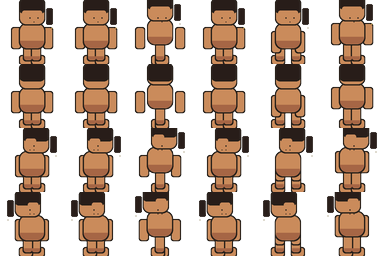
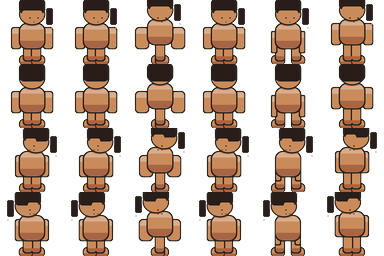
Фикс языка, наложений UI, красного маркера, голых моделек и зазора рук
Локализация:
- kk-перевод не регистрировался в project.godot, из-за чего движковый
  locale/fallback=en откатывал казахский текст на английский — язык
  переключался только в одну сторону. Зарегистрирован ui_strings.kk.translation
  и явно выставлен locale/fallback="kk"

UI:
- Убран красный маркер соқыртеке (кольцо+треугольник) полностью — из
  character_visual.gd и обоих вызовов (игрок-ловец, маскот на главном экране)
- Написан headless-аудит наложений (tools/ui_audit.gd, работает через реальный
  Godot 4.7 в headless-режиме) — прогнан по всем 7 экранам меню
- Гардероб: второй ряд карточек одежды был обрезан скроллом почти полностью
  (видно 22px из 146px) — уплотнены отступы, теперь видна большая часть двух рядов
- Настройки: карточка геймплея на 5px залезала на подпись версии — сдвинута

Персонаж:
- На странице подготовки (лобби) модельки были голыми: CharacterVisual строился
  во временном отключённом от дерева контейнере, set_clothing() вызывался до
  срабатывания _ready(), из-за чего @onready-ссылки на слои одежды были ещё
  null и вызов молча проваливался. Добавлена очередь отложенных вызовов
  set_clothing(), которая применяется в _ready() — защищает от той же
  проблемы в любом другом месте, не только в лобби
- Руки отрывались от туловища на кадрах взмаха при ходьбе: весь прямоугольник
  руки сдвигался целиком, включая плечевой край. Плечевой край руки теперь
  зафиксирован на позиции торса всегда, свободен только внешний край
[…]

diff --git a/tools/generate_character.py b/tools/generate_character.py
@@ -64,8 +64,11 @@ def layout(direction, frame):
     head = (5, 1 + bob, 11, 6 + bob)
     hair = (5, 0 + bob, 11, 3 + bob)
     torso = (5, 6 + bob, 11, 12 + bob)
-    arm_l = (3 - arm, 7 + abs(arm) + bob, 5 - arm, 12 + abs(arm) + bob)
-    arm_r = (11 + arm, 7 + abs(arm) + bob, 13 + arm, 12 + abs(arm) + bob)
+    # The shoulder-side edge of each arm stays pinned to the torso's edge at every frame —
+    # only the outer edge moves with the swing — so a swinging arm never opens a gap at
+    # the shoulder no matter how far it travels.
+    arm_l = (3 - arm, 7 + abs(arm) + bob, 5, 12 + abs(arm) + bob)
+    arm_r = (11, 7 + abs(arm) + bob, 13 + arm, 12 + abs(arm) + bob)
     leg_l = (6 + stride, 11, 8 + stride, 15)
     leg_r = (8 - stride, 11, 10 - stride, 15)
     foot_l = (5 + stride, 14, 8 + stride, 16)
@@ -76,7 +79,7 @@ def layout(direction, frame):
                     arm_r=arm_r, leg_l=leg_l, leg_r=leg_r, foot_l=foot_l, foot_r=foot_r)
     if direction == "left":
         return dict(head=(6, 1 + bob, 12, 6 + bob), hair=(6, 0 + bob, 12, 3 + bob), torso=(5, 6 + bob, 11, 12 + bob),
-                    arm_l=(4 - arm, 7 + abs(arm) + bob, 6 - arm, 12 + abs(arm) + bob), arm_r=(10 + arm, 7 + abs(arm) + bob, 12 + arm, 12 + abs(arm) + bob),
+                    arm_l=(4 - arm, 7 + abs(arm) + bob, 6, 12 + abs(arm) + bob), arm_r=(10, 7 + abs(arm) + bob, 12 + arm, 12 + abs(arm) + bob),
                     leg_l=leg_l, leg_r=leg_r, foot_l=foot_l, foot_r=foot_r)
     return dict(head=head, hair=hair, torso=torso, arm_l=arm_l, arm_r=arm_r,
                 leg_l=leg_l, leg_r=leg_r, foot_l=foot_l, foot_r=foot_r)
@@ -86,6 +89,12 @@ def darken(color, factor=0.78):
     r, g, b = color[0], color[1], color[2]
     a = color[3] if len(color) > 3 else 255
     return (int(r * factor), int(g * factor), int(b * factor), a)
+
+
+def lighten(color, factor=0.30):
+    r, g, b = color[0], color[1], color[2]
+    a = color[3] if len(color) > 3 else 255
+    return (int(r + (255 - r) * factor), int(g + (255 - g) * factor), int(b + (255 - b) * factor), a)
 
 
 def _super_rect(r):
@@ -112,6 +121,24 @@ def draw_part(d, r, color):
     outline_r(d, r, OUTLINE)
     sr = _super_rect(r)
     d.rounded_rectangle(sr, radius=_radius_for(sr), fill=color)
+
+
+def draw_head(d, r, color):
+    """Head is drawn as a true ellipse instead of a rounded rectangle — reads as an
+    actual round head silhouette rather than a rounded box, at the same bounding rect."""
+    x0, y0, x1, y1 = _super_rect(r)
+    pad = int(SUPER * 0.35)
+    d.ellipse((x0 - pad, y0 - pad, x1 + pad, y1 + pad), fill=OUTLINE)
+    d.ellipse((x0, y0, x1, y1), fill=color)
+
+
+def draw_end_cap(d, r, color):
+    """Hands/feet: a rounder capsule shape distinct from the straight limb above it."""
+    x0, y0, x1, y1 = _super_rect(r)
+    pad = int(SUPER * 0.35)
+    rad = int(min(x1 - x0, y1 - y0) * 0.45)
+    d.rounded_rectangle((x0 - pad, y0 - pad, x1 + pad, y1 + pad), radius=rad + pad, fill=OUTLINE)
+    d.rounded_rectangle((x0, y0, x1, y1), radius=rad, fill=color)
 
 
 def draw_face(d, direction, layout_info, hair_style):
@@ -162,41 +189,72 @@ def body_frame(direction, frame, variant):
     L = layout(direction, frame)
     skin = variant["skin"]
     skin_dark = variant["skin_dark"]
+    skin_light = lighten(skin)
     for key in ("foot_l", "foot_r"):
-        draw_part(d, L[key], skin)
+        draw_end_cap(d, L[key], skin)
+        _shade_bottom_band(img, d, L[key], skin_dark, 0.3)
     for key in ("leg_l", "leg_r"):
         draw_part(d, L[key], skin)
     for key in ("arm_l", "arm_r"):
         draw_part(d, L[key], skin)
+        _shade_band(img, d, L[key], skin_light, 0.28, from_top=True)
     draw_part(d, L["torso"], skin)
+    _shade_band(img, d, L["torso"], skin_light, 0.22, from_top=True)
     _shade_bottom_band(img, d, L["torso"], skin_dark, 0.3)
     for key in ("leg_l", "leg_r"):
         _shade_bottom_band(img, d, L[key], skin_dark, 0.22)
-    draw_part(d, L["head"], skin)
+    # Soft neck crease where the round head sits on the torso — separates the two
+    # silhouettes instead of letting them read as one fused blob.
+    _draw_neck_shadow(img, L, skin_dark)
+    draw_head(d, L["head"], skin)
+    _shade_band(img, d, L["head"], skin_light, 0.32, from_top=True, oval=True)
     draw_hair(d, img, direction, L, variant["hair"], variant["hair_style"], skin)
     draw_face(d, direction, L, variant["hair_style"])
     return img.resize((FRAME, FRAME), Image.LANCZOS)
 
 
-def _shade_bottom_band(img, d, r, shadow_color, frac):
-    """Paints a flat shadow tone along the bottom of an already-drawn rounded part,
-    clipped to that part's own rounded silhouette so the shading never spills past the outline."""
+def _draw_neck_shadow(img, L, skin_dark):
+    hx0, hy0, hx1, hy1 = L["head"]
+    cx = (hx0 + hx1) / 2.0 * SUPER
+    cy = hy1 * SUPER
+    rw = (hx1 - hx0) * SUPER * 0.30
+    rh = SUPER * 0.55
+    layer = Image.new("RGBA", img.size, (0, 0, 0, 0))
+    ld = ImageDraw.Draw(layer)
+    ld.ellipse((cx - rw, cy - rh * 0.4, cx + rw, cy + rh), fill=(*skin_dark[:3], 140))
+    img.alpha_composite(layer)
+
+
+def _shade_band(img, d, r, tone_color, frac, from_top, oval=False):
+    """Paints a flat tone along the top or bottom of an already-drawn part, clipped to
+    that part's own silhouette (rounded rect or ellipse) so it never spills past the outline.
+    Two calls (from_top=False then True) give simple two-tone cel shading: a shadow band
+    at the bottom and a lighter highlight band at the top, reading as more three-dimensional
+    than a single flat fill."""
     x0, y0, x1, y1 = _super_rect(r)
     w, h = x1 - x0, y1 - y0
     if w <= 0 or h <= 0:
         return
-    rad = _radius_for((x0, y0, x1, y1))
     mask = Image.new("L", (int(w), int(h)), 0)
     md = ImageDraw.Draw(mask)
-    md.rounded_rectangle((0, 0, w, h), radius=rad, fill=255)
-    band_top = h * (1.0 - frac)
+    if oval:
+        md.ellipse((0, 0, w, h), fill=255)
+    else:
+        md.rounded_rectangle((0, 0, w, h), radius=_radius_for((x0, y0, x1, y1)), fill=255)
     band = Image.new("L", (int(w), int(h)), 0)
     bd = ImageDraw.Draw(band)
-    bd.rectangle((0, band_top, w, h), fill=255)
+    if from_top:
+        bd.rectangle((0, 0, w, h * frac), fill=255)
+    else:
+        bd.rectangle((0, h * (1.0 - frac), w, h), fill=255)
     from PIL import ImageChops
     band = ImageChops.multiply(mask, band)
-    layer = Image.new("RGBA", (int(w), int(h)), shadow_color)
+    layer = Image.new("RGBA", (int(w), int(h)), tone_color)
     img.paste(layer, (int(x0), int(y0)), band)
+
+
+def _shade_bottom_band(img, d, r, shadow_color, frac):
+    _shade_band(img, d, r, shadow_color, frac, from_top=False)
 
 
 def garment_parts(item, direction, frame):
@@ -331,19 +389,27 @@ def garment_frame(item, direction, frame):
     color = item["color"]
     if len(color) == 3:
         color = (color[0], color[1], color[2], 255)
+    highlight = lighten(color, 0.24)
+    shadow = darken(color)
     crown, extras = garment_parts(item, direction, frame)
     if crown:
         draw_crown(d, crown, color)
+        _shade_band(img, d, (crown[0], crown[1], crown[2], crown[3] + 1), highlight, 0.3, from_top=True)
+    is_shoes = item["slot"] == "shoes"
     if item.get("hat") == "wrap":
         for i, r in enumerate(extras):
             draw_piece_outer(d, r, color, i == 1)
     else:
         for r in extras:
-            draw_part(d, r, color)
-    # Плоская тень снизу каждой крупной части — та же логика, что и на теле.
-    shadow = darken(color)
+            if is_shoes:
+                draw_end_cap(d, r, color)
+            else:
+                draw_part(d, r, color)
+    # Двухтоновый cel-shading — блик сверху и тень снизу — на каждой крупной части,
+    # та же логика, что и на теле, чтобы одежда не выглядела площе персонажа.
     if extras and item.get("hat") != "wrap":
         for r in extras:
+            _shade_band(img, d, r, highlight, 0.24, from_top=True)
             _shade_bottom_band(img, d, r, shadow, 0.3)
     draw_garment_details(d, item, direction, frame)
     if item["slot"] == "torso":
